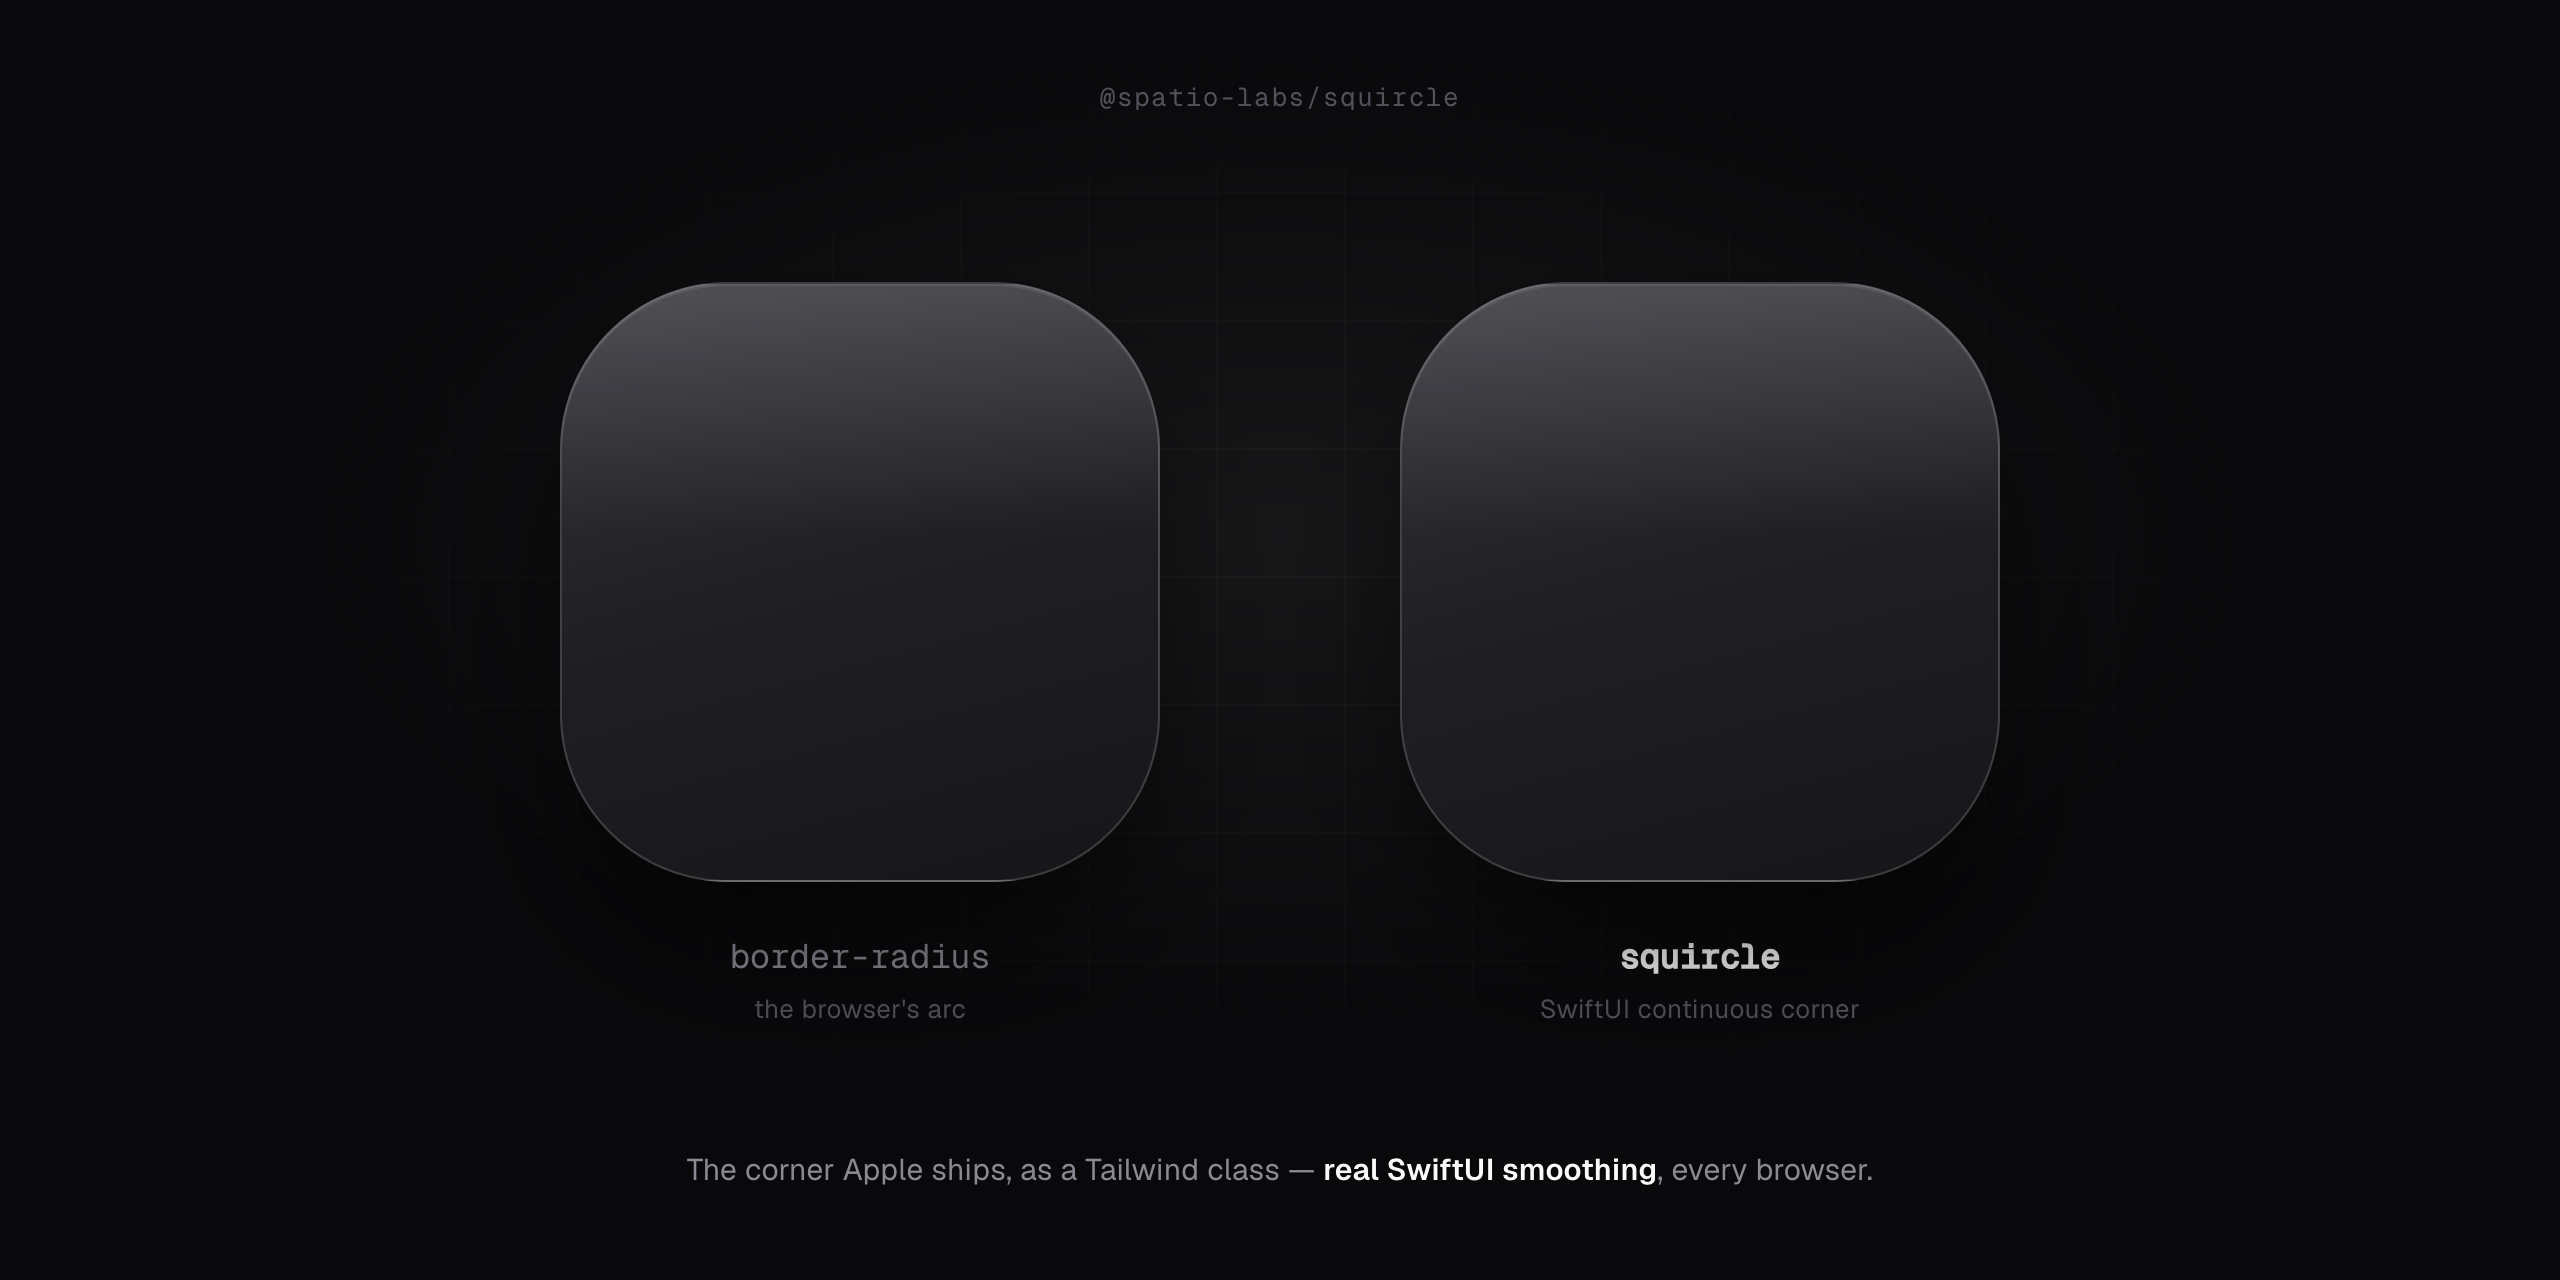
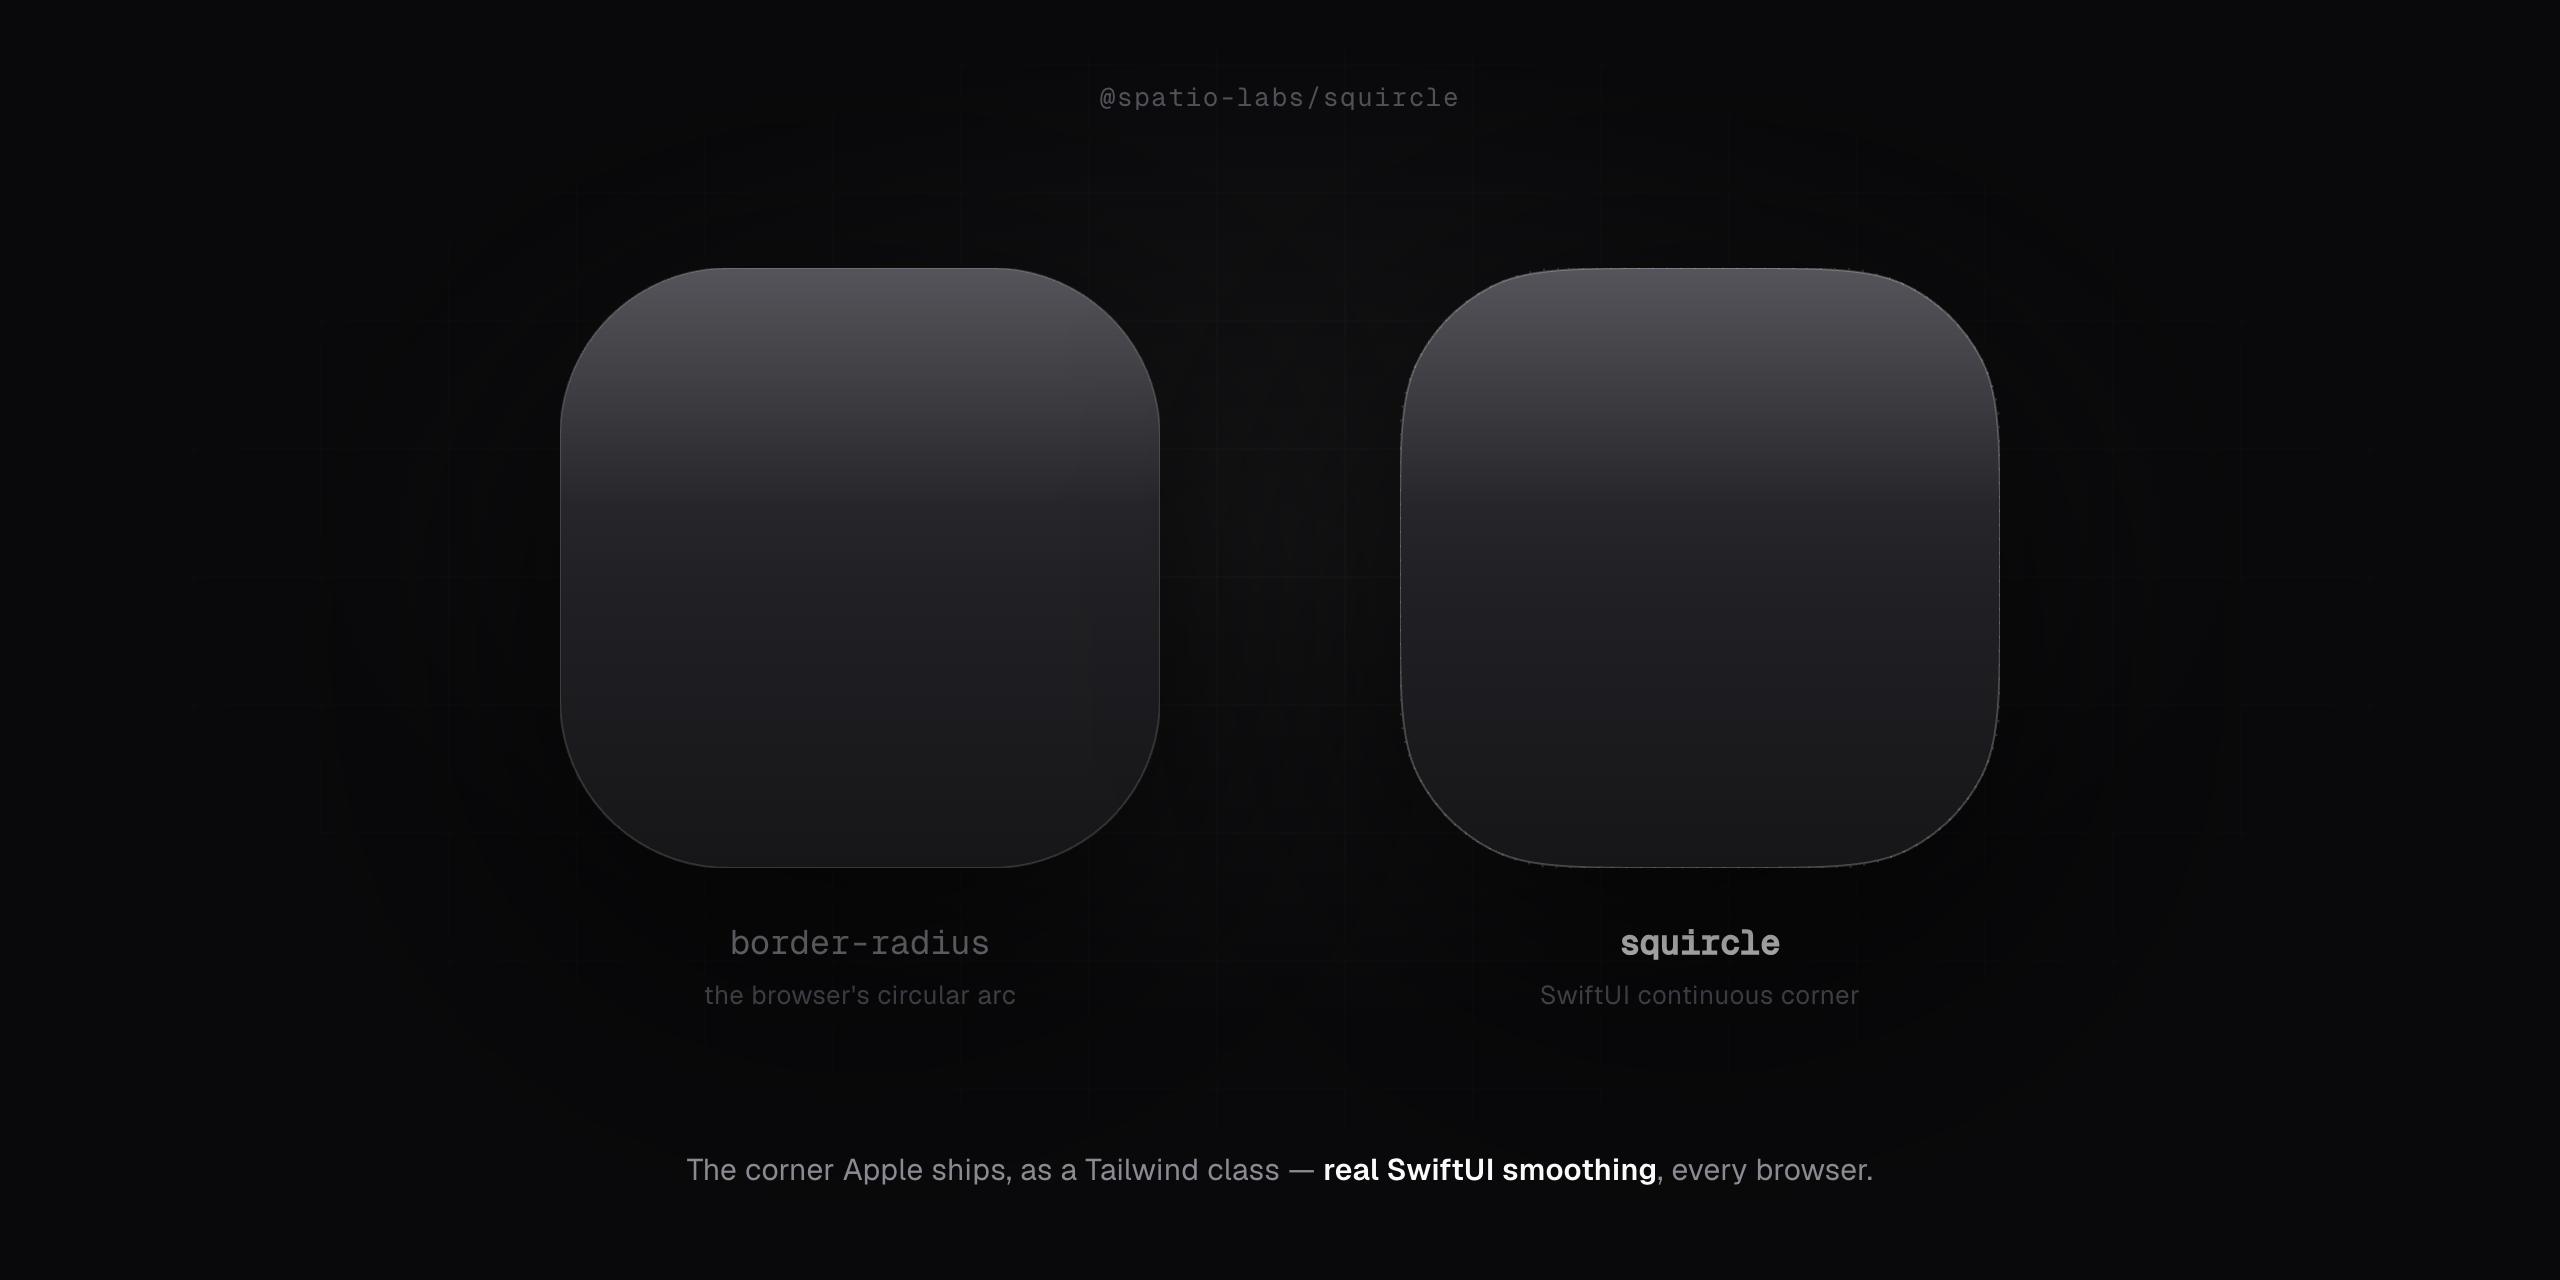
deploy

diff --git a/README.md b/README.md
@@ -78,7 +78,7 @@ The radius comes from your normal Tailwind radius utilities (`rounded-md`,
 
 ### Borders that follow the curve
 
-![A plain CSS border thins to nothing at the corner, while squircle keeps it even all the way around](./squircle_borders.png)
+![A squircle card with a sky-blue border, and a magnified corner showing the border keeps an even width around the continuous curve](./squircle_borders.png)
 
 This is the part most squircle implementations miss. A normal CSS `border` on a
 clip-path'd squircle gets **shaved off at the corners** — so others either drop